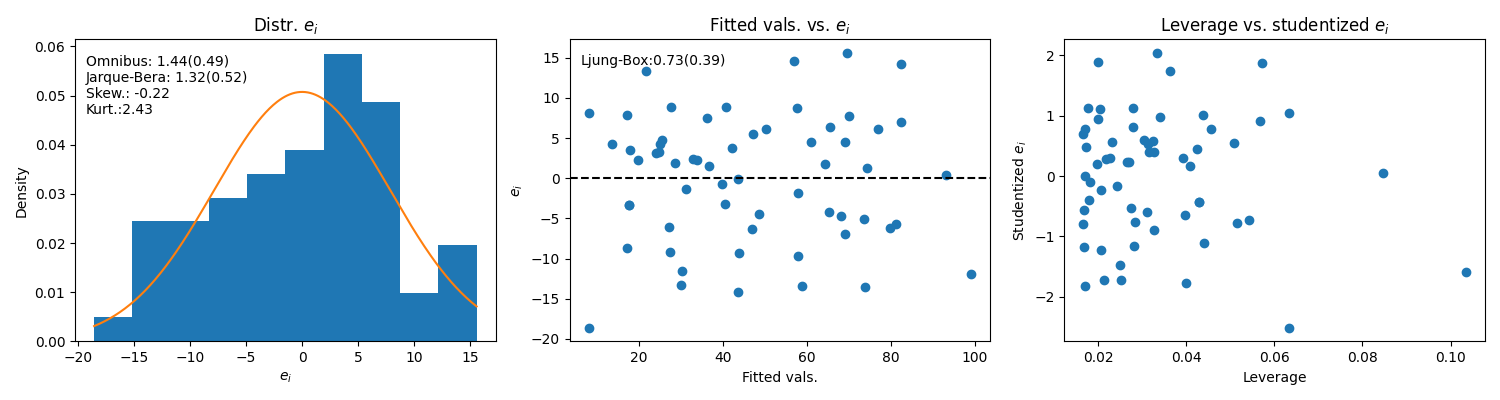
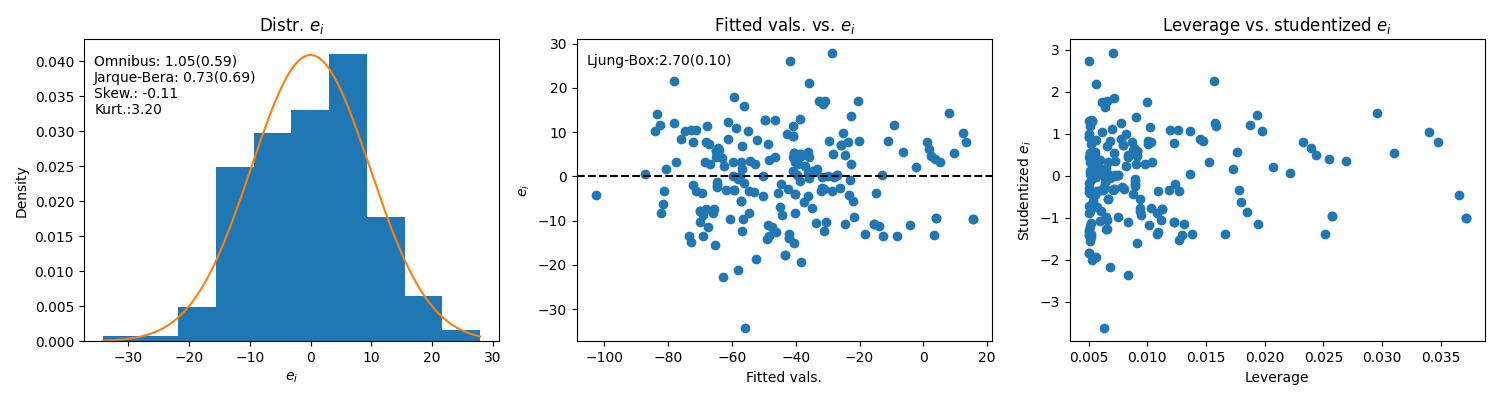
dummy

diff --git a/ols.py b/ols.py
@@ -11,81 +11,110 @@ from statsmodels.stats.outliers_influence import OLSInfluence
 # y_hat = X@beta_hat -> model for E(Y|X), i.e., for the deterministic part of y
 # the goal is to get a regression line that matches the population regression line
 
-pop_size = 5000
-X = np.random.normal(20, 10, (pop_size, ))
-X = sm.add_constant(X)
-sigma_epsilon = 7
-epsilon = np.random.normal(0, sigma_epsilon, (pop_size, ))
-beta = np.array([1.0234, 2.3324]) 
-y = X@beta + epsilon
+class OLS:
 
-n = 60
-idx_sample = np.random.randint(low=0, high=len(X), size=n)
-X_sample, y_sample = X[idx_sample], y[idx_sample]
+    def __init__(self, pop_size, sample_size, sigma_epsilon, beta):
+        self.pop_size = pop_size
+        self.sample_size = sample_size
+        self.sigma_epsilon = sigma_epsilon
+        self.epsilon = np.random.normal(0, self.sigma_epsilon, (self.pop_size, ))
+        self.beta = np.array(beta)
 
-model_pop = sm.OLS(y, X)
-model_pop = model_pop.fit()
-y_hat_pop = model_pop.predict(X)
+    def make_X(self):
+        self.X = np.random.normal(20, 10, (self.pop_size, ))
+        self.X = sm.add_constant(self.X)
 
-model_sample = sm.OLS(y_sample, X_sample)
-model_sample = model_sample.fit()
-y_hat_sample = model_sample.predict(X_sample)
-beta_hat = model_sample.params 
+    def make_y(self):
+        self.y = self.X@self.beta + self.epsilon
 
-# population vs. sample OLS
-fig, ax = plt.subplots()
-ax.scatter(X[:, 1], y, facecolors='gray', edgecolors='gray', s=10, linewidths=0.5, alpha=0.3)
-ax.scatter(X_sample[:, 1], y_sample, facecolor='None', edgecolors='red', linewidths=0.5, s=30)
-ax.plot(X[:, 1], y_hat_pop, color='gray')
-ax.plot(X_sample[:, 1], y_hat_sample, color='red')
-ax.text(x=-10, y=120, s=rf'$\beta_0 = {beta[0]:.3f}, \hat{{\beta}}_0 = {beta_hat[0]:.3f}$')
-ax.text(x=-10, y=108, s=rf'$\beta_1 = {beta[1]:.3f}, \hat{{\beta}}_1 = {beta_hat[1]:.3f}$')
-plt.savefig('ols_pop_vs_sample.png')
+    def make_X_y_sample(self):
+        idx_sample = np.random.randint(low=0, high=len(self.X), size=self.sample_size)
+        self.X_sample, self.y_sample = self.X[idx_sample], self.y[idx_sample]
 
-# residuals and fitted values
-e_i = model_sample.resid
-e_i_mean = np.mean(e_i)
-e_i_sd = np.sqrt(np.var(e_i, ddof=2)) # this is rse
+    def make_models(self):
+        self.model_pop = sm.OLS(self.y, self.X)
+        self.model_pop = self.model_pop.fit()
+        self.y_hat_pop = self.model_pop.predict(self.X)
 
-e_i_x = np.linspace(e_i.min(), e_i.max(), 300)
-e_i_pdf = scipy.stats.norm.pdf(e_i_x, loc=e_i_mean, scale=e_i_sd)
-y_hat_i = model_sample.fittedvalues
+        self.model_sample = sm.OLS(self.y_sample, self.X_sample)
+        self.model_sample = self.model_sample.fit()
+        self.y_hat_sample = self.model_sample.predict(self.X_sample)
+        self.beta_hat = self.model_sample.params 
 
-print(f'RSS relative to y_meam: {e_i_sd:.2f} --- {y_sample.mean():.2f}')
-print(f'Real Var(epsilon) = {sigma_epsilon:.2f} --- RSE = {e_i_sd:.2f}')
+    def plot_population_vs_sample(self):
 
-# regression diagnistics
-omnibus_stat, omnibus_p = omni_normtest(e_i) 
-jb_stat, jb_p, skew, kurtosis = jarque_bera(e_i)
-lb = acorr_ljungbox(e_i, lags=[1], return_df=True)
-lb_stat, lb_pvalue = lb['lb_stat'].values[0], lb['lb_pvalue'].values[0]
-influence = OLSInfluence(model_sample)
-leverage = influence.hat_matrix_diag
-studentized_resid = influence.resid_studentized_external
+        fig, ax = plt.subplots()
+        ax.scatter(self.X[:, 1], self.y, facecolors='gray', edgecolors='gray', s=10, linewidths=0.5, alpha=0.3)
+        ax.scatter(self.X_sample[:, 1], self.y_sample, facecolor='None', edgecolors='red', linewidths=0.5, s=30)
+        ax.plot(self.X[:, 1], self.y_hat_pop, color='gray')
+        ax.plot(self.X_sample[:, 1], self.y_hat_sample, color='red')
+        ax.text(x=-10, y=120, s=rf'$\beta_0 = {self.beta[0]:.3f}, \hat{{\beta}}_0 = {self.beta_hat[0]:.3f}$')
+        ax.text(x=-10, y=108, s=rf'$\beta_1 = {self.beta[1]:.3f}, \hat{{\beta}}_1 = {self.beta_hat[1]:.3f}$')
+        plt.savefig('ols_pop_vs_sample.png')
 
-# plot diagnostics
-fig, ax = plt.subplots(1, 3, figsize=(15, 4))
-ax[0].set_title(r'Distr. $e_i$')
-ax[0].hist(e_i, density=True)
-ax[0].plot(e_i_x, e_i_pdf)
-ax[0].text(
-    0.025, 0.95, 
-    f'Omnibus: {omnibus_stat:.2f}({omnibus_p:.2f})\nJarque-Bera: {jb_stat:.2f}({jb_p:.2f})\nSkew.: {skew:.2f}\nKurt.:{kurtosis:.2f}', 
-    transform=ax[0].transAxes, verticalalignment='top'
-)
-ax[0].set_xlabel(r'$e_i$')
-ax[0].set_ylabel('Density')
-ax[1].set_title(r'Fitted vals. vs. $e_i$')
-ax[1].scatter(y_hat_i, e_i)
-ax[1].axhline(y=0, color='black', linestyle='--')
-ax[1].set_xlabel('Fitted vals.')
-ax[1].set_ylabel(r'$e_i$')
-ax[1].text(0.025, 0.95, f'Ljung-Box:{lb_stat:.2f}({lb_pvalue:.2f})', transform=ax[1].transAxes, verticalalignment='top')
-ax[2].set_title(r'Leverage vs. studentized $e_i$')
-ax[2].scatter(leverage, studentized_resid)
-ax[2].set_xlabel('Leverage')
-ax[2].set_ylabel(r'Studentized $e_i$')
-plt.tight_layout()
-plt.savefig('ols_distr_ei.png')
+    def compute_residuals_stats(self):
+        self.e_i = self.model_sample.resid
+        self.e_i_mean = np.mean(self.e_i)
+        self.e_i_sd = np.sqrt(np.var(self.e_i, ddof=2)) # this is rse
+        self.e_i_x = np.linspace(self.e_i.min(), self.e_i.max(), 300)
+        self.e_i_pdf = scipy.stats.norm.pdf(self.e_i_x, loc=self.e_i_mean, scale=self.e_i_sd)
+        self.y_hat_i = self.model_sample.fittedvalues
+
+    def print_rss_relative_to_y_mean(self):
+        print(f'RSS relative to y_meam: {self.e_i_sd:.2f} --- {self.y_sample.mean():.2f}')
+        print(f'Real Var(epsilon) = {self.sigma_epsilon:.2f} --- RSE = {self.e_i_sd:.2f}')
+
+    def compute_diagnostics(self):
+        self.omnibus_stat, self.omnibus_p = omni_normtest(self.e_i) 
+        self.jb_stat, self.jb_p, self.skew, self.kurtosis = jarque_bera(self.e_i)
+        lb = acorr_ljungbox(self.e_i, lags=[1], return_df=True)
+        self.lb_stat, self.lb_pvalue = lb['lb_stat'].values[0], lb['lb_pvalue'].values[0]
+        influence = OLSInfluence(self.model_sample)
+        self.leverage = influence.hat_matrix_diag
+        self.studentized_resid = influence.resid_studentized_external
+
+    def plot_diagnostics(self):
+        fig, ax = plt.subplots(1, 3, figsize=(15, 4))
+        ax[0].set_title(r'Distr. $e_i$')
+        ax[0].hist(self.e_i, density=True)
+        ax[0].plot(self.e_i_x, self.e_i_pdf)
+        ax[0].text(
+            0.025, 0.95, 
+            f'Omnibus: {self.omnibus_stat:.2f}({self.omnibus_p:.2f})\nJarque-Bera: {self.jb_stat:.2f}({self.jb_p:.2f})\nSkew.: {self.skew:.2f}\nKurt.:{self.kurtosis:.2f}', 
+            transform=ax[0].transAxes, verticalalignment='top'
+        )
+        ax[0].set_xlabel(r'$e_i$')
+        ax[0].set_ylabel('Density')
+        ax[1].set_title(r'Fitted vals. vs. $e_i$')
+        ax[1].scatter(self.y_hat_i, self.e_i)
+        ax[1].axhline(y=0, color='black', linestyle='--')
+        ax[1].set_xlabel('Fitted vals.')
+        ax[1].set_ylabel(r'$e_i$')
+        ax[1].text(0.025, 0.95, f'Ljung-Box:{self.lb_stat:.2f}({self.lb_pvalue:.2f})', transform=ax[1].transAxes, verticalalignment='top')
+        ax[2].set_title(r'Leverage vs. studentized $e_i$')
+        ax[2].scatter(self.leverage, self.studentized_resid)
+        ax[2].set_xlabel('Leverage')
+        ax[2].set_ylabel(r'Studentized $e_i$')
+        plt.tight_layout()
+        plt.savefig('ols_distr_ei.png')
+
+
+    def run(self):
+        self.make_X()
+        self.make_y()
+        self.make_X_y_sample()
+        self.make_models()
+        self.plot_population_vs_sample()
+        self.compute_residuals_stats()
+        self.print_rss_relative_to_y_mean()
+        self.compute_diagnostics()
+        self.plot_diagnostics()
+
+
+if __name__ == '__main__':
+    ols = OLS(1000, 200, 10, [1.44, -2.43])
+    ols.run()
+
+
 
 

diff --git a/mlr.py b/mlr.py
@@ -1,0 +1,12 @@
+### MLR multiple linear regression
+# y = X@beta + epsilon -> each y has a deterministic (X@beta -> E(Y|X)) and a random part (epsilon) -> y is a random variable
+# y_hat = X@beta_hat -> model for E(Y|X), i.e., for the deterministic part of y
+# the goal is to get a regression line that matches the population regression line
+# X is of shape (n, p) with p > 1
+# each beta_j is the effect of factor j **holding all other factors constant**
+
+import numpy as np
+import scipy
+import matplotlib.pyplot as plt
+import statsmodels.api as sm
+
